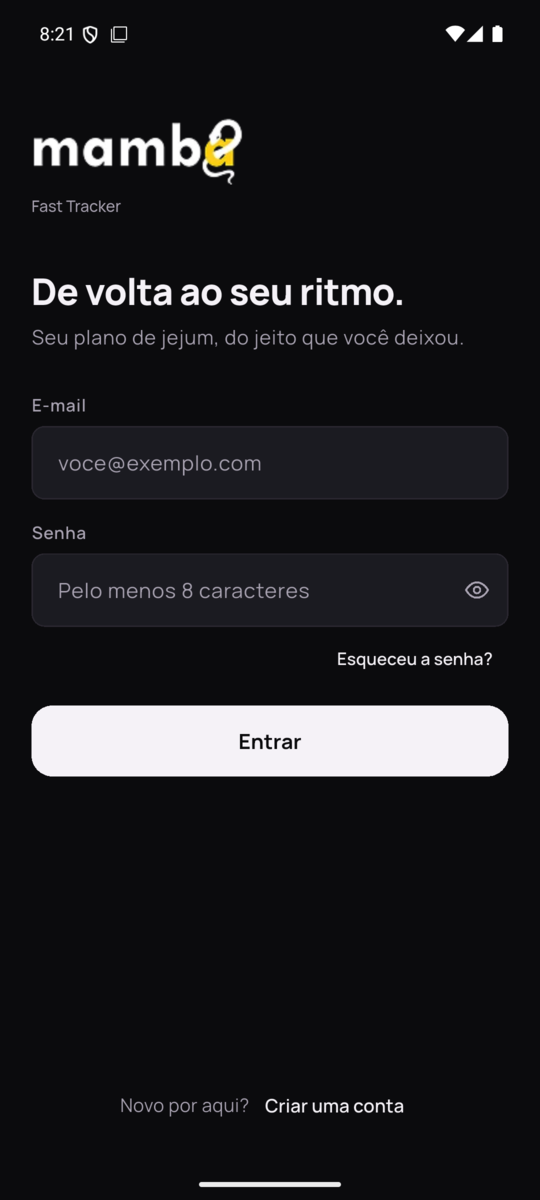
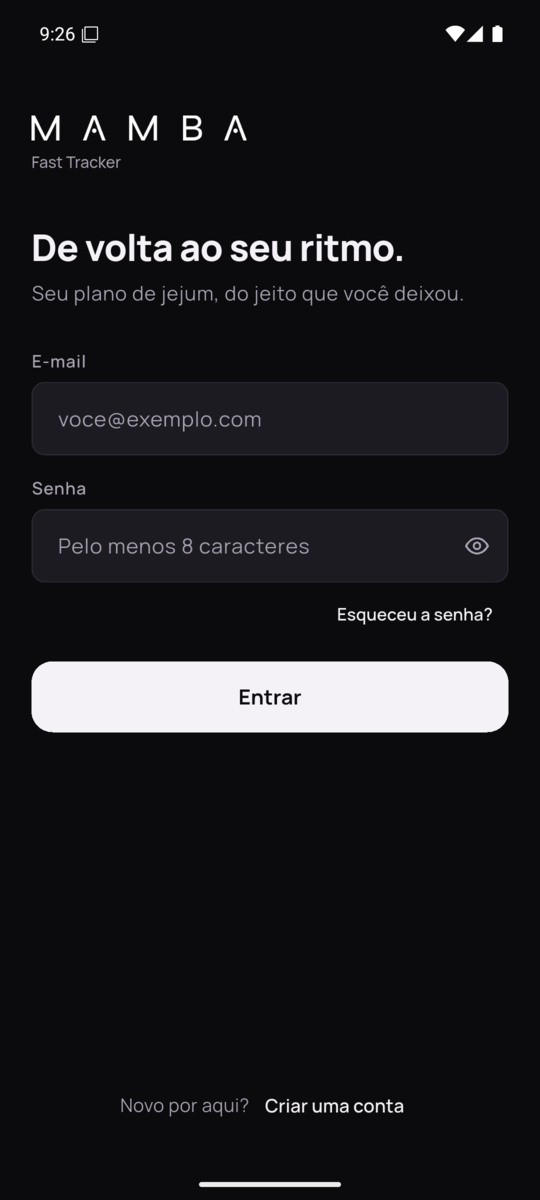
docs: retake the screenshots that show the wordmark

Changed region(s): [[0.0593, 0.0925, 0.9481, 0.6475], [0.1185, 0.0, 0.1778, 0.0617], [0.2074, 0.0, 0.237, 0.0617]]

diff --git a/README.md b/README.md
@@ -396,6 +396,7 @@ Trade-off: every screen depends on the localizations, and a third language means
 
 - The protocol choice is one small record: the selected protocol id plus the custom fasting hours. Custom hours are kept when a preset is selected again, so the custom card stays editable. Presets are constants in code, since they never change and there is nothing to store for them.
 - Plain `Navigator` instead of a routing package. A few tabs and a handful of pushed screens do not justify one.
+- The wordmark in the header and on login is the Mamba Growth logo, drawn white for the dark background. It is a single image asset, so replacing it did not touch any code.
 - Manrope is bundled as an asset instead of fetched at runtime, so the app renders correctly offline and on first launch.
 - The Dockerfile installs the toolchain from the official Flutter and Android archives instead of a community image, so the Flutter version can be pinned to exactly what CI uses.
 - Android is the only generated platform because the challenge requires an APK or AAB.
@@ -438,10 +439,11 @@ Trade-off: every screen depends on the localizations, and a third language means
 
 ## Time Spent
 
-About 23 hours across three days. The hours come from the commit history, so they cover the time between the first and last commit of each day.
+About 24 hours across four days. The hours come from the commit history, so they cover the time between the first and last commit of each day.
 
 | Day | Hours | What was done |
 | --- | --- | --- |
 | Day 1 | ~10h | Project setup, architecture, CI, Docker build, login with a local session, and fasting protocols |
 | Day 2 | ~4h | Fasting timer with persisted timestamps, lifecycle handling, and local notifications |
 | Day 3 | ~9h | Meals, daily summary, History, weekly chart, UI polish, more tests, Firebase accounts, data per account, ongoing notification, icon, signing, and this README |
+| Day 4 | ~1h | Replaced the wordmark with the Mamba Growth logo, retook the affected screenshots, and released 1.0.1 |
